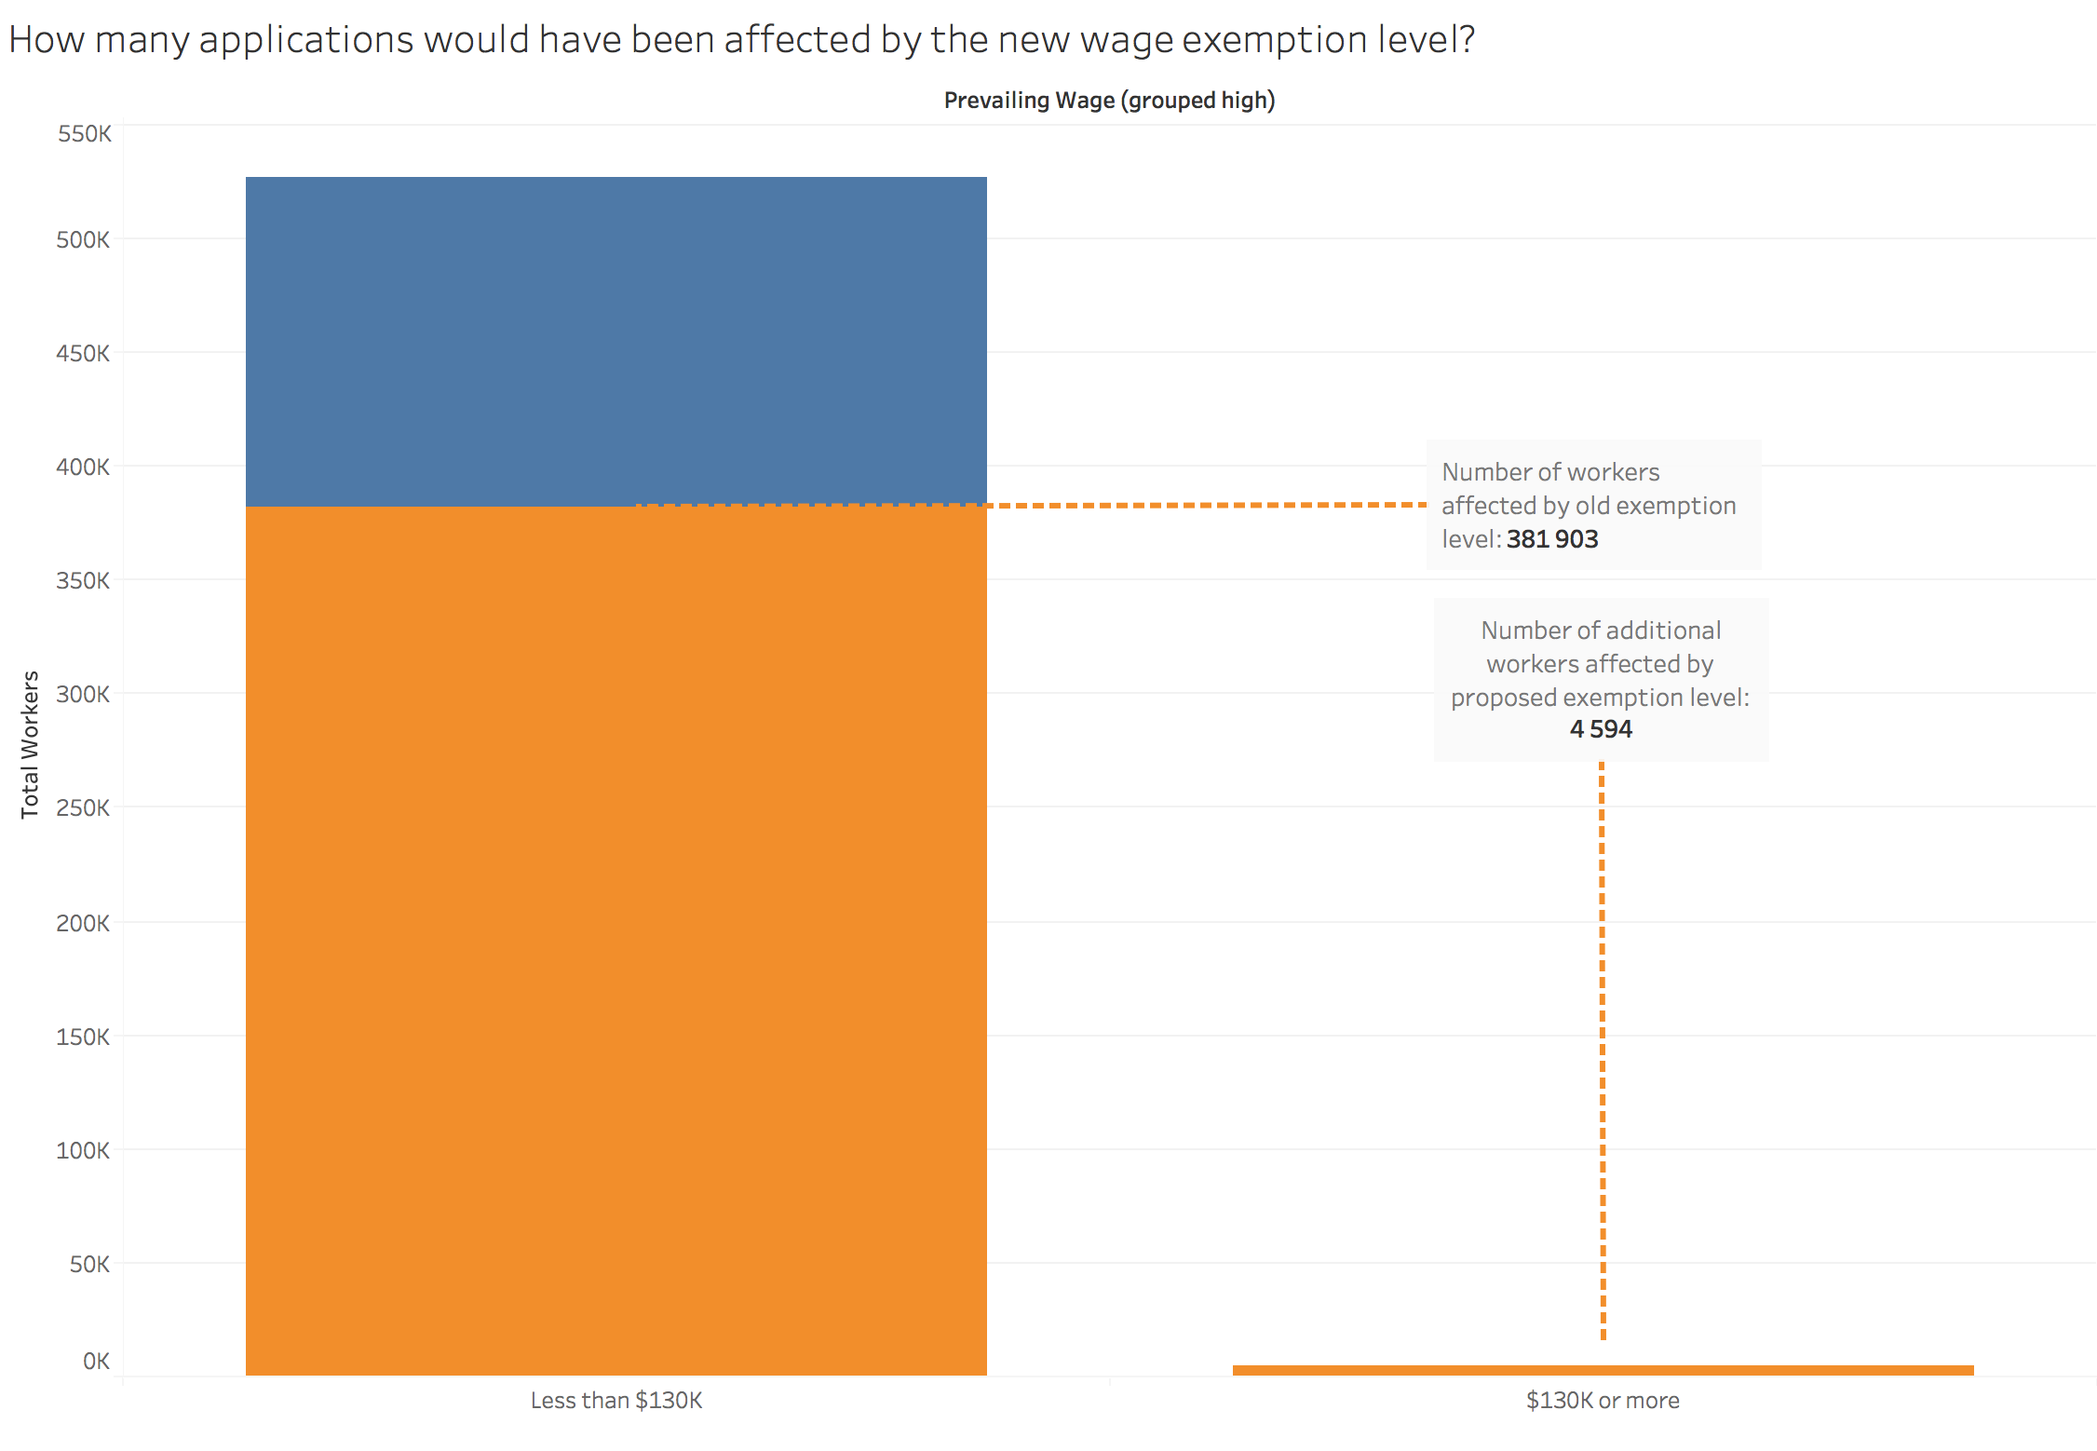
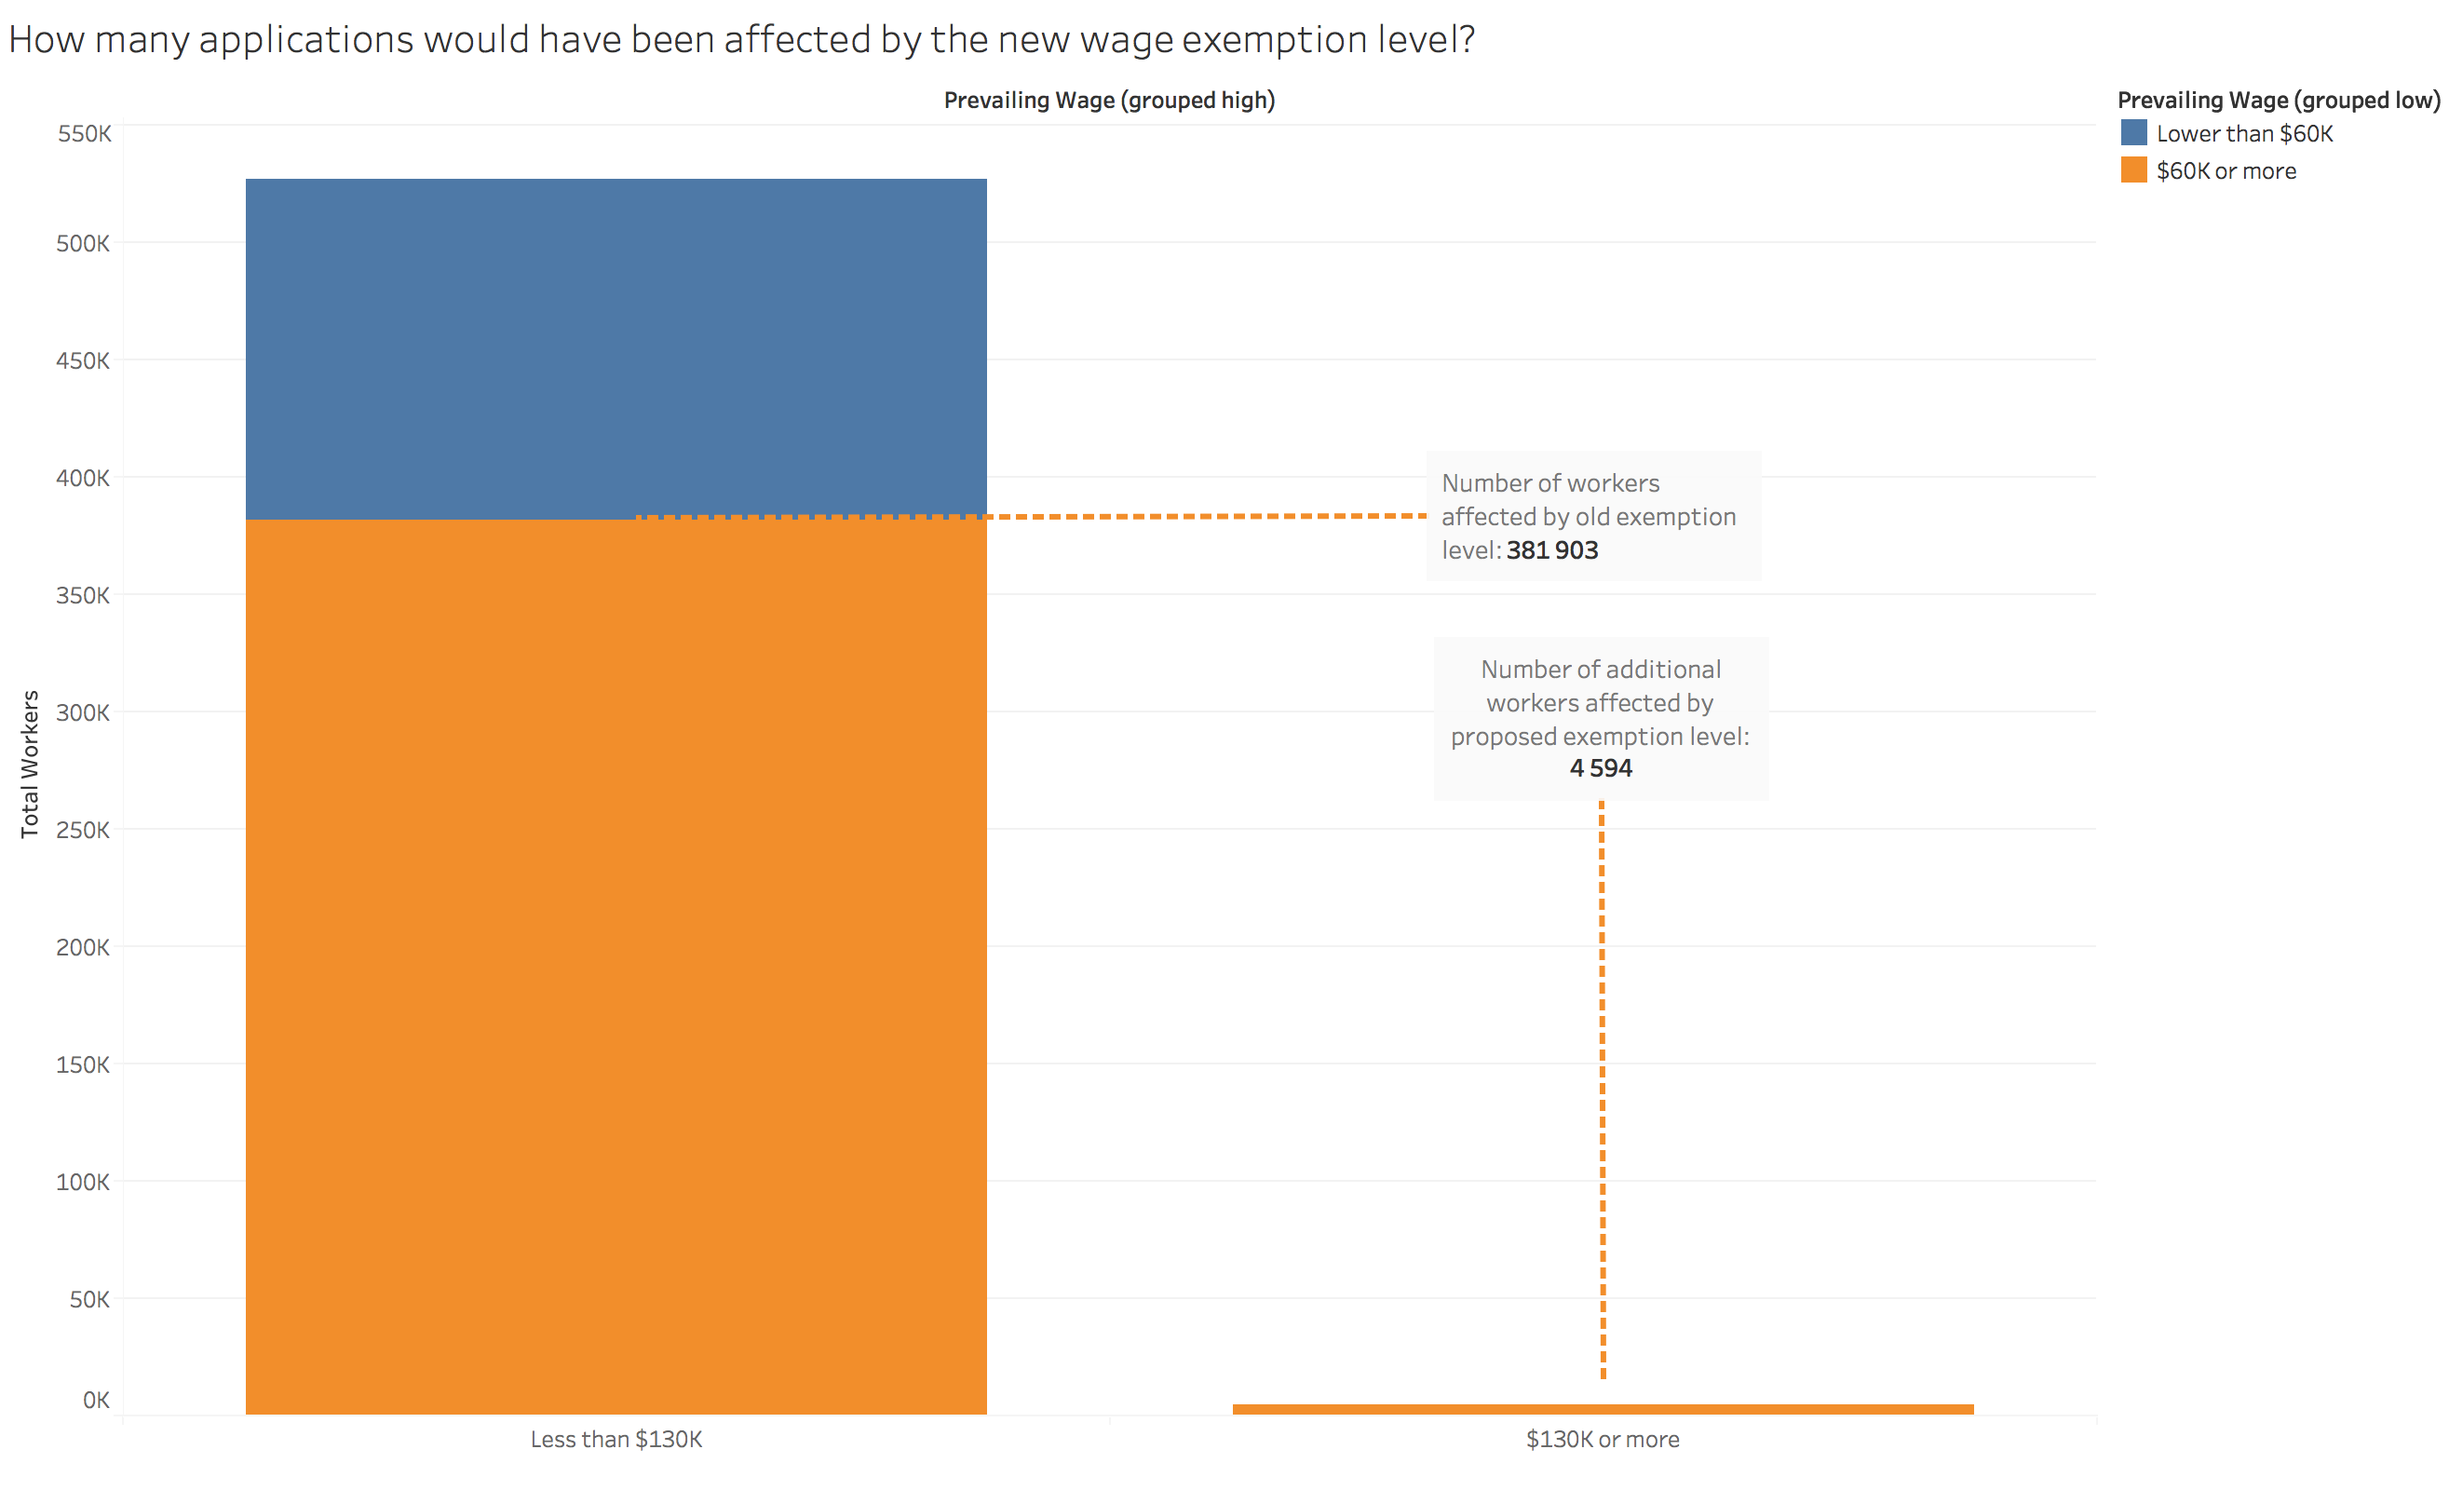
add legend to pw increase, and update db

diff --git a/A2/a2-template.html b/A2/a2-template.html
@@ -146,10 +146,10 @@ ol { margin: 1em; }
   <div class="entry">
     <img src="pw_increase_4.png" />
     <p class="caption">
-    The bill proposes to raise the prevailing wage exception level at 35 percentile points above the median
+    The bill proposes to raise the prevailing wage exception level to 35 percentile points above the median
     for the most recent national annual wage for Computer and Mathematical Occupations as
     published in the Department of Labor Occupational Employment Statistics, which, long story short, is at $130 000. <br/>
-    It is apparent in the above graph that this will not affect many more applications, which indicates that employers are mostly paying their H-1B workers fairly, and on par with the prevailing wages in their respective fields. They are not displacing American workers, at least not because they are taking lower salaries. <br/>
+    It is apparent in the above graph that this will not affect many more workers, which indicates that H-1B dependent employers are mostly paying their H-1B workers fairly, and on par with the prevailing wages in their respective fields. They are not displacing American workers, at least not because they are taking lower salaries. <br/>
     Sadly, the dataset does not contain information about the applicants degree(s), so I was not able to assess the effect of removing the requirement of a Master's degree.
     </p>
   </div>
